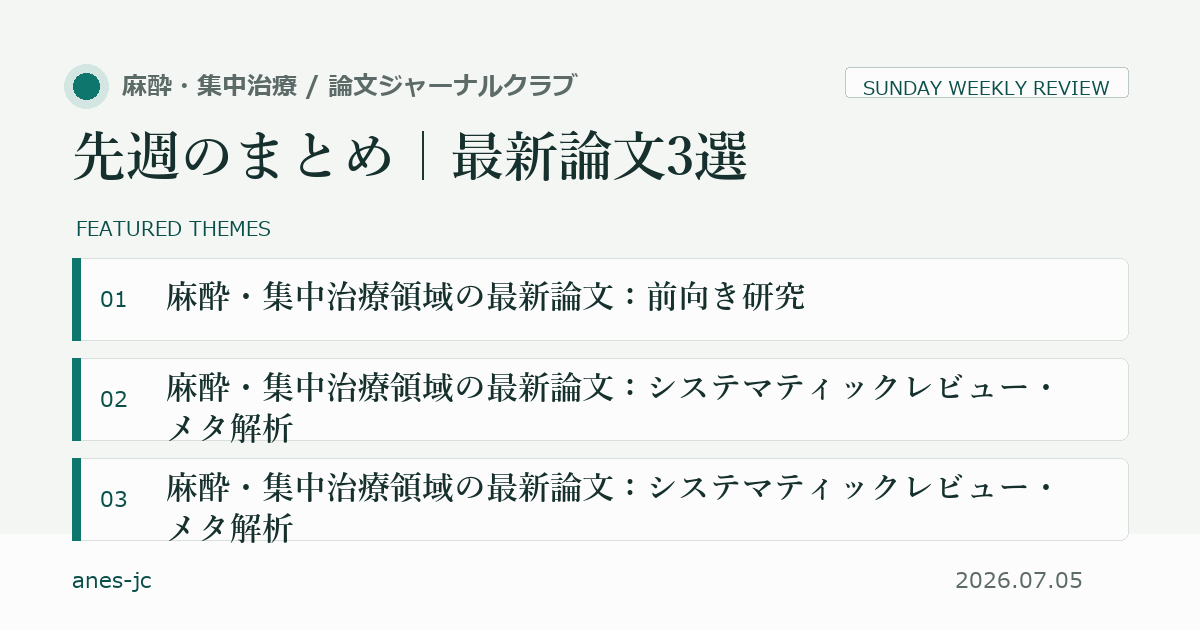
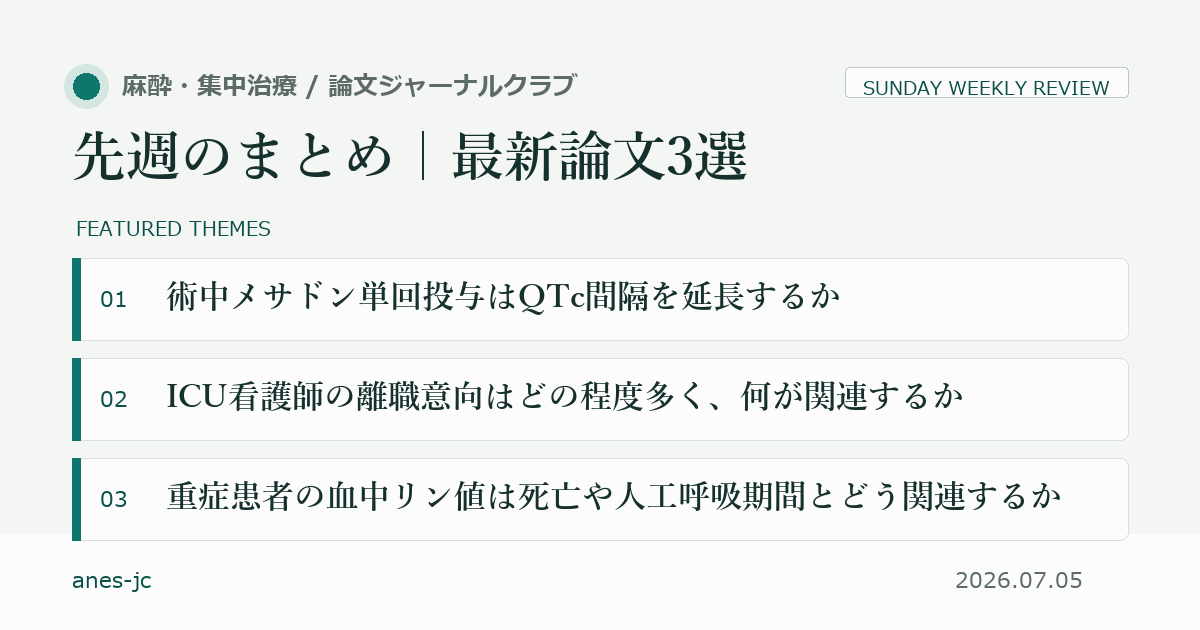
Fix July 5 Sunday latest paper summaries

Changed region(s): [[0.1233, 0.573, 0.8633, 0.6937], [0.1233, 0.754, 0.8942, 0.8746], [0.1233, 0.4222, 0.7092, 0.5127]]

diff --git a/articles/latest-papers-2026-07-05.html b/articles/latest-papers-2026-07-05.html
@@ -48,27 +48,27 @@
     <li><a href="../articles/remimazolam-eeg-regression.html">レミマゾラム麻酔中、高齢者のEEGはどう変わるか — 回帰分析で読む周波数パワーとcoherence</a><span>2026.07.01</span></li>
     <li><a href="../articles/cesarean-vasopressor-nma.html">脊麻帝王切開の昇圧薬は何を選ぶか — ネットワークメタ解析で読む</a><span>2026.06.29</span></li></ul></section>
 <section class="sec"><div class="sechd"><h2>最新論文3選</h2></div><article class="paper-card">
-      <h2>麻酔・集中治療領域の最新論文：前向き研究</h2>
+      <h2>術中メサドン単回投与はQTc間隔を延長するか</h2>
       <p class="design">前向き研究</p>
-      <p class="summary"><span>日本語メモ</span>英語タイトル上は「麻酔・集中治療領域の最新論文」を扱う前向き研究です。下の英語タイトルと出典IDを確認して、抄録・原文で詳細を確認してください。</p>
+      <p class="summary"><span>日本語メモ</span>全身麻酔導入時の静注メサドン単回投与とQTcFの変化を前向き観察コホートで評価した論文です。新規QTcF&gt;500 msはメサドン群で少なく、単回投与では臨床的に意味のあるQTc延長は示されませんでした。</p>
       <h3>Single-dose intraoperative methadone and QTc interval: a prospective observational cohort investigation.</h3>
-      <p class="meta"> / 2026-07-03</p>
+      <p class="meta">British Journal of Anaesthesia / 2026-07-03</p>
       <p class="source-id">DOI: 10.1016/j.bja.2026.04.072</p>
       <a class="source" href="https://doi.org/10.1016%2Fj.bja.2026.04.072">抄録・原文を見る →</a>
     </article><article class="paper-card">
-      <h2>麻酔・集中治療領域の最新論文：システマティックレビュー・メタ解析</h2>
+      <h2>ICU看護師の離職意向はどの程度多く、何が関連するか</h2>
       <p class="design">システマティックレビュー・メタ解析</p>
-      <p class="summary"><span>日本語メモ</span>英語タイトル上は「麻酔・集中治療領域の最新論文」を扱うシステマティックレビュー・メタ解析です。下の英語タイトルと出典IDを確認して、抄録・原文で詳細を確認してください。</p>
+      <p class="summary"><span>日本語メモ</span>ICU看護師の「ICUを離れたい」「看護職を離れたい」という離職意向の有病割合と関連因子を統合したシステマティックレビュー・メタ解析です。離職意向は約3割にみられ、バーンアウト、業務負荷、人員配置、組織的支援が主要な論点です。</p>
       <h3>Global prevalence and associated factors of turnover intention among intensive care nurses: A systematic review and meta-analysis.</h3>
-      <p class="meta"> / 2026-07-03</p>
+      <p class="meta">Intensive and Critical Care Nursing / 2026-07-03</p>
       <p class="source-id">DOI: 10.1016/j.iccn.2026.104494</p>
       <a class="source" href="https://doi.org/10.1016%2Fj.iccn.2026.104494">抄録・原文を見る →</a>
     </article><article class="paper-card">
-      <h2>麻酔・集中治療領域の最新論文：システマティックレビュー・メタ解析</h2>
+      <h2>重症患者の血中リン値は死亡や人工呼吸期間とどう関連するか</h2>
       <p class="design">システマティックレビュー・メタ解析</p>
-      <p class="summary"><span>日本語メモ</span>英語タイトル上は「麻酔・集中治療領域の最新論文」を扱うシステマティックレビュー・メタ解析です。下の英語タイトルと出典IDを確認して、抄録・原文で詳細を確認してください。</p>
+      <p class="summary"><span>日本語メモ</span>成人ICU患者の血中リン値と死亡、ICU滞在、人工呼吸期間の関連を整理したシステマティックレビュー・メタ解析です。低リン血症は滞在・人工呼吸期間の延長と、高リン血症は死亡リスクや滞在・人工呼吸期間の延長と関連していましたが、エビデンスの質と異質性には注意が必要です。</p>
       <h3>Association between blood phosphorus level and clinical outcomes in critically ill patients: A systematic review and meta-analysis.</h3>
-      <p class="meta"> / 2026-07-01</p>
+      <p class="meta">JPEN: Journal of Parenteral and Enteral Nutrition / 2026-07-01</p>
       <p class="source-id">DOI: 10.1002/jpen.70115</p>
       <a class="source" href="https://doi.org/10.1002%2Fjpen.70115">抄録・原文を見る →</a>
     </article></section>

diff --git a/index.html b/index.html
@@ -440,6 +440,5 @@
   });
 </script>
 
-<!-- Pages deployment refresh: 2026-07-05 Sunday article -->
 </body>
 </html>
